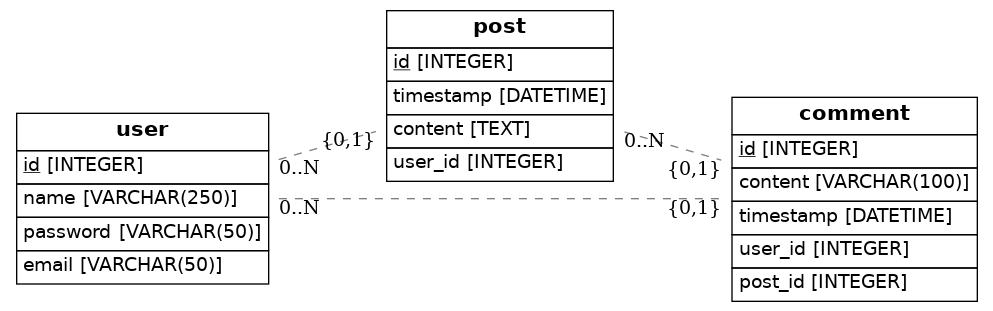
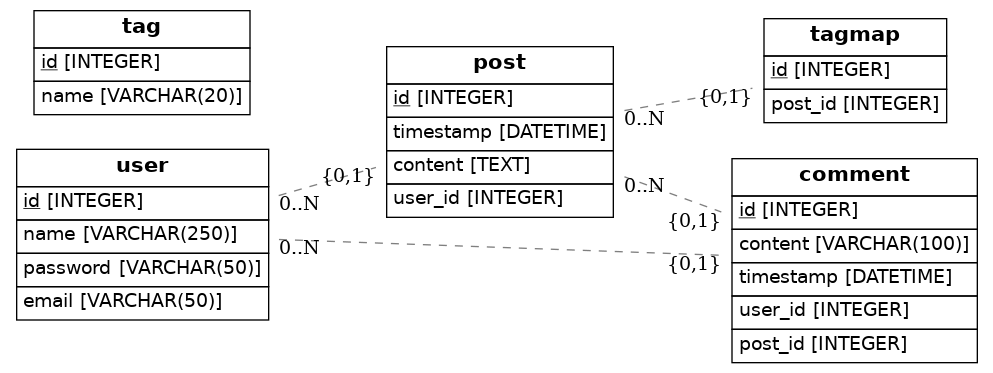
tagmap table defined

diff --git a/src/models.py b/src/models.py
@@ -27,6 +27,7 @@ class Post(Base):
     user_id = Column(Integer, ForeignKey('user.id'), nullable=False)
     user = relationship(User)
     comments = relationship('Comment', backref='post', lazy=True)
+    tagmaps = relationship('Tagmap', backref='post', lazy=True)
 
     def to_dict(self):
         return {}
@@ -44,6 +45,22 @@ class Comment(Base):
 
     def to_dict(self):
         return {}
+
+
+class Tagmap(Base):
+    __tablename__ = 'tagmap'
+    id = Column(Integer, primary_key=True)
+    post_id = Column(Integer, ForeignKey('post.id'), nullable=False)
+    post = relationship(Post)
+
+    def to_dict(self):
+        return {}
+
+
+class Tag(Base):
+    __tablename__ = 'tag'
+    id = Column(Integer, primary_key=True)
+    name = Column(String(20), nullable=False)
 
 
 # Draw from SQLAlchemy base
